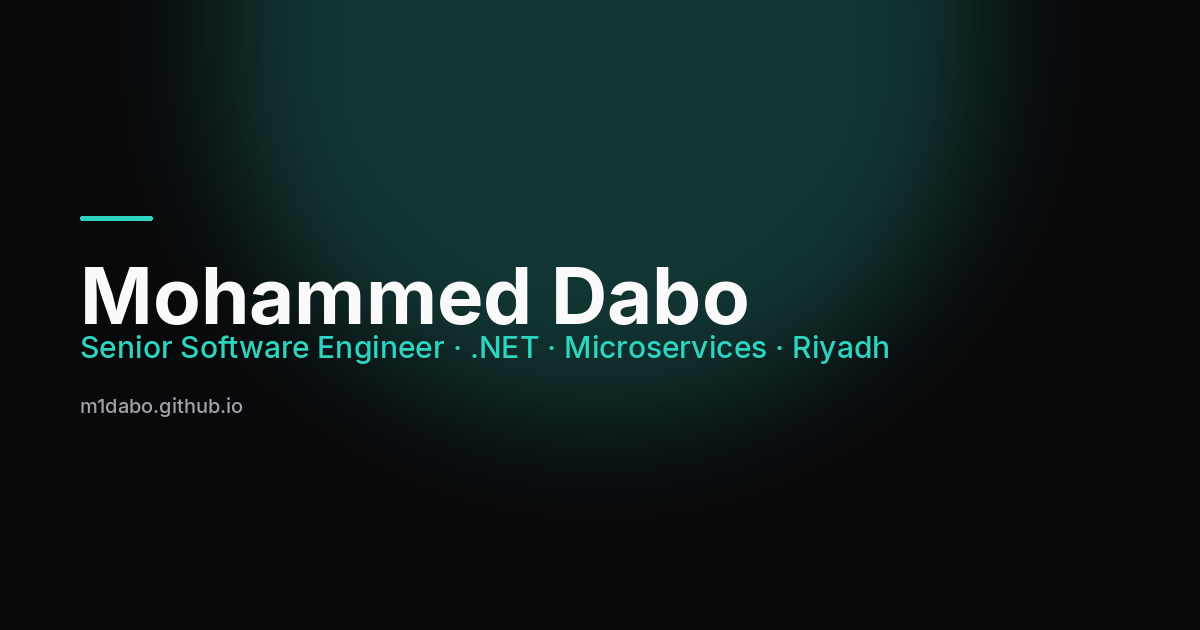
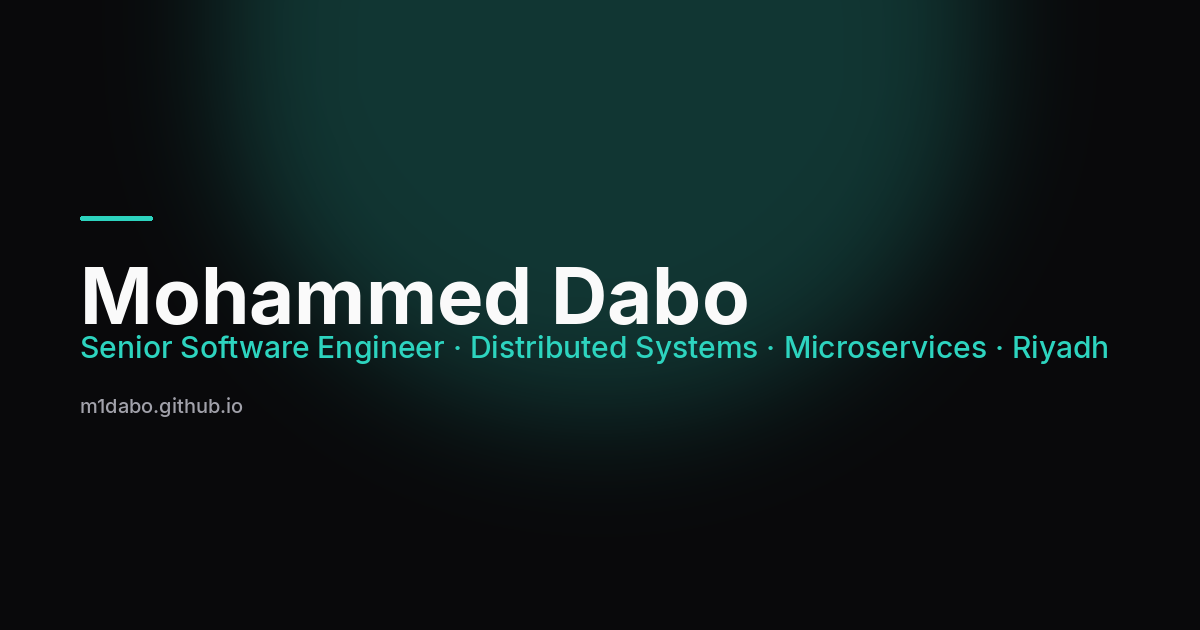
Use a tech-agnostic headline instead of leading with .NET.
Titles, the hero tagline, meta and social descriptions, and the social card now read Senior Software Engineer, with Distributed Systems · Microservices · Riyadh in place of .NET. C# and .NET stay in the skills and experience details.

Changed region(s): [[0.4008, 0.5127, 0.925, 0.573]]

diff --git a/src/index.html b/src/index.html
@@ -5,24 +5,24 @@
   <title>Mohammed Dabo | Senior Software Engineer</title>
   <base href="/">
   <meta name="viewport" content="width=device-width, initial-scale=1">
-  <meta name="description" content="Senior Software Engineer in Riyadh. .NET and microservices for the client ZATCA since October 2021, placed through PaTeXs, SSIS, and JCCS.">
+  <meta name="description" content="Senior Software Engineer in Riyadh. Distributed systems and microservices for the client ZATCA since October 2021, placed through PaTeXs, SSIS, and JCCS.">
   <meta name="author" content="Mohammed Dabo">
   <link rel="canonical" href="https://m1dabo.github.io/">
   <meta property="og:type" content="website">
   <meta property="og:title" content="Mohammed Dabo | Senior Software Engineer">
-  <meta property="og:description" content="Senior Software Engineer in Riyadh. .NET and microservices for the client ZATCA since October 2021, placed through PaTeXs, SSIS, and JCCS.">
+  <meta property="og:description" content="Senior Software Engineer in Riyadh. Distributed systems and microservices for the client ZATCA since October 2021, placed through PaTeXs, SSIS, and JCCS.">
   <meta property="og:url" content="https://m1dabo.github.io/">
   <meta property="og:site_name" content="Mohammed Dabo">
   <meta property="og:image" content="https://m1dabo.github.io/og-image.png">
   <meta property="og:image:type" content="image/png">
   <meta property="og:image:width" content="1200">
   <meta property="og:image:height" content="630">
-  <meta property="og:image:alt" content="Mohammed Dabo — Senior Software Engineer · .NET · Microservices · Riyadh">
+  <meta property="og:image:alt" content="Mohammed Dabo — Senior Software Engineer · Distributed Systems · Microservices · Riyadh">
   <meta name="twitter:card" content="summary_large_image">
   <meta name="twitter:title" content="Mohammed Dabo | Senior Software Engineer">
-  <meta name="twitter:description" content="Senior Software Engineer in Riyadh. .NET and microservices for the client ZATCA since October 2021, placed through PaTeXs, SSIS, and JCCS.">
+  <meta name="twitter:description" content="Senior Software Engineer in Riyadh. Distributed systems and microservices for the client ZATCA since October 2021, placed through PaTeXs, SSIS, and JCCS.">
   <meta name="twitter:image" content="https://m1dabo.github.io/og-image.png">
-  <meta name="twitter:image:alt" content="Mohammed Dabo — Senior Software Engineer · .NET · Microservices · Riyadh">
+  <meta name="twitter:image:alt" content="Mohammed Dabo — Senior Software Engineer · Distributed Systems · Microservices · Riyadh">
   <link rel="icon" type="image/x-icon" href="favicon.ico">
   <link rel="preconnect" href="https://fonts.googleapis.com">
   <link rel="preconnect" href="https://fonts.gstatic.com" crossorigin>

diff --git a/src/app/core/content/profile.ts b/src/app/core/content/profile.ts
@@ -1,12 +1,12 @@
 export const SITE_URL = 'https://m1dabo.github.io';
 
 export const SITE_DESCRIPTION =
-  'Senior Software Engineer in Riyadh. .NET and microservices for the client ZATCA since October 2021, placed through PaTeXs, SSIS, and JCCS.';
+  'Senior Software Engineer in Riyadh. Distributed systems and microservices for the client ZATCA since October 2021, placed through PaTeXs, SSIS, and JCCS.';
 
 export const SOCIAL_IMAGE_URL = `${SITE_URL}/og-image.png`;
 
 export const SOCIAL_IMAGE_ALT =
-  'Mohammed Dabo — Senior Software Engineer · .NET · Microservices · Riyadh';
+  'Mohammed Dabo — Senior Software Engineer · Distributed Systems · Microservices · Riyadh';
 
 export interface ImpactMetric {
   value: string;
@@ -100,7 +100,7 @@ export interface Profile {
 export const PROFILE: Profile = {
   name: 'Mohammed Dabo',
   title: 'Senior Software Engineer',
-  headline: '.NET · Microservices · Full-stack · DevOps',
+  headline: 'Distributed Systems · Microservices · Riyadh',
   coreSkills: [
     'C# / .NET',
     'Entity Framework',

diff --git a/src/app/pages/home/home.component.html b/src/app/pages/home/home.component.html
@@ -65,7 +65,7 @@
   <section id="about" class="scroll-mt-24 border-t border-[var(--border)] py-16">
     <h2 class="text-2xl font-semibold tracking-tight">About</h2>
     <p class="mt-2 max-w-2xl text-[var(--fg-muted)]">
-      Senior Software Engineer in Riyadh, focused on .NET backends and the full stack around them.
+      Senior Software Engineer in Riyadh, focused on distributed systems and the platforms around them.
     </p>
     <div class="mt-8 grid gap-10 lg:grid-cols-5">
       <div class="space-y-4 lg:col-span-3">

diff --git a/docs/resume.html b/docs/resume.html
@@ -42,7 +42,7 @@
 <body>
   <header>
     <h1>Mohammed Dabo</h1>
-    <p class="role">Senior Software Engineer · .NET · Microservices · Full-stack · DevOps</p>
+    <p class="role">Senior Software Engineer · Distributed Systems · Microservices · Riyadh</p>
     <p class="contact">
       Riyadh, Saudi Arabia ·
       <a href="mailto:mohammed.dabo@hotmail.com">mohammed.dabo@hotmail.com</a> ·
